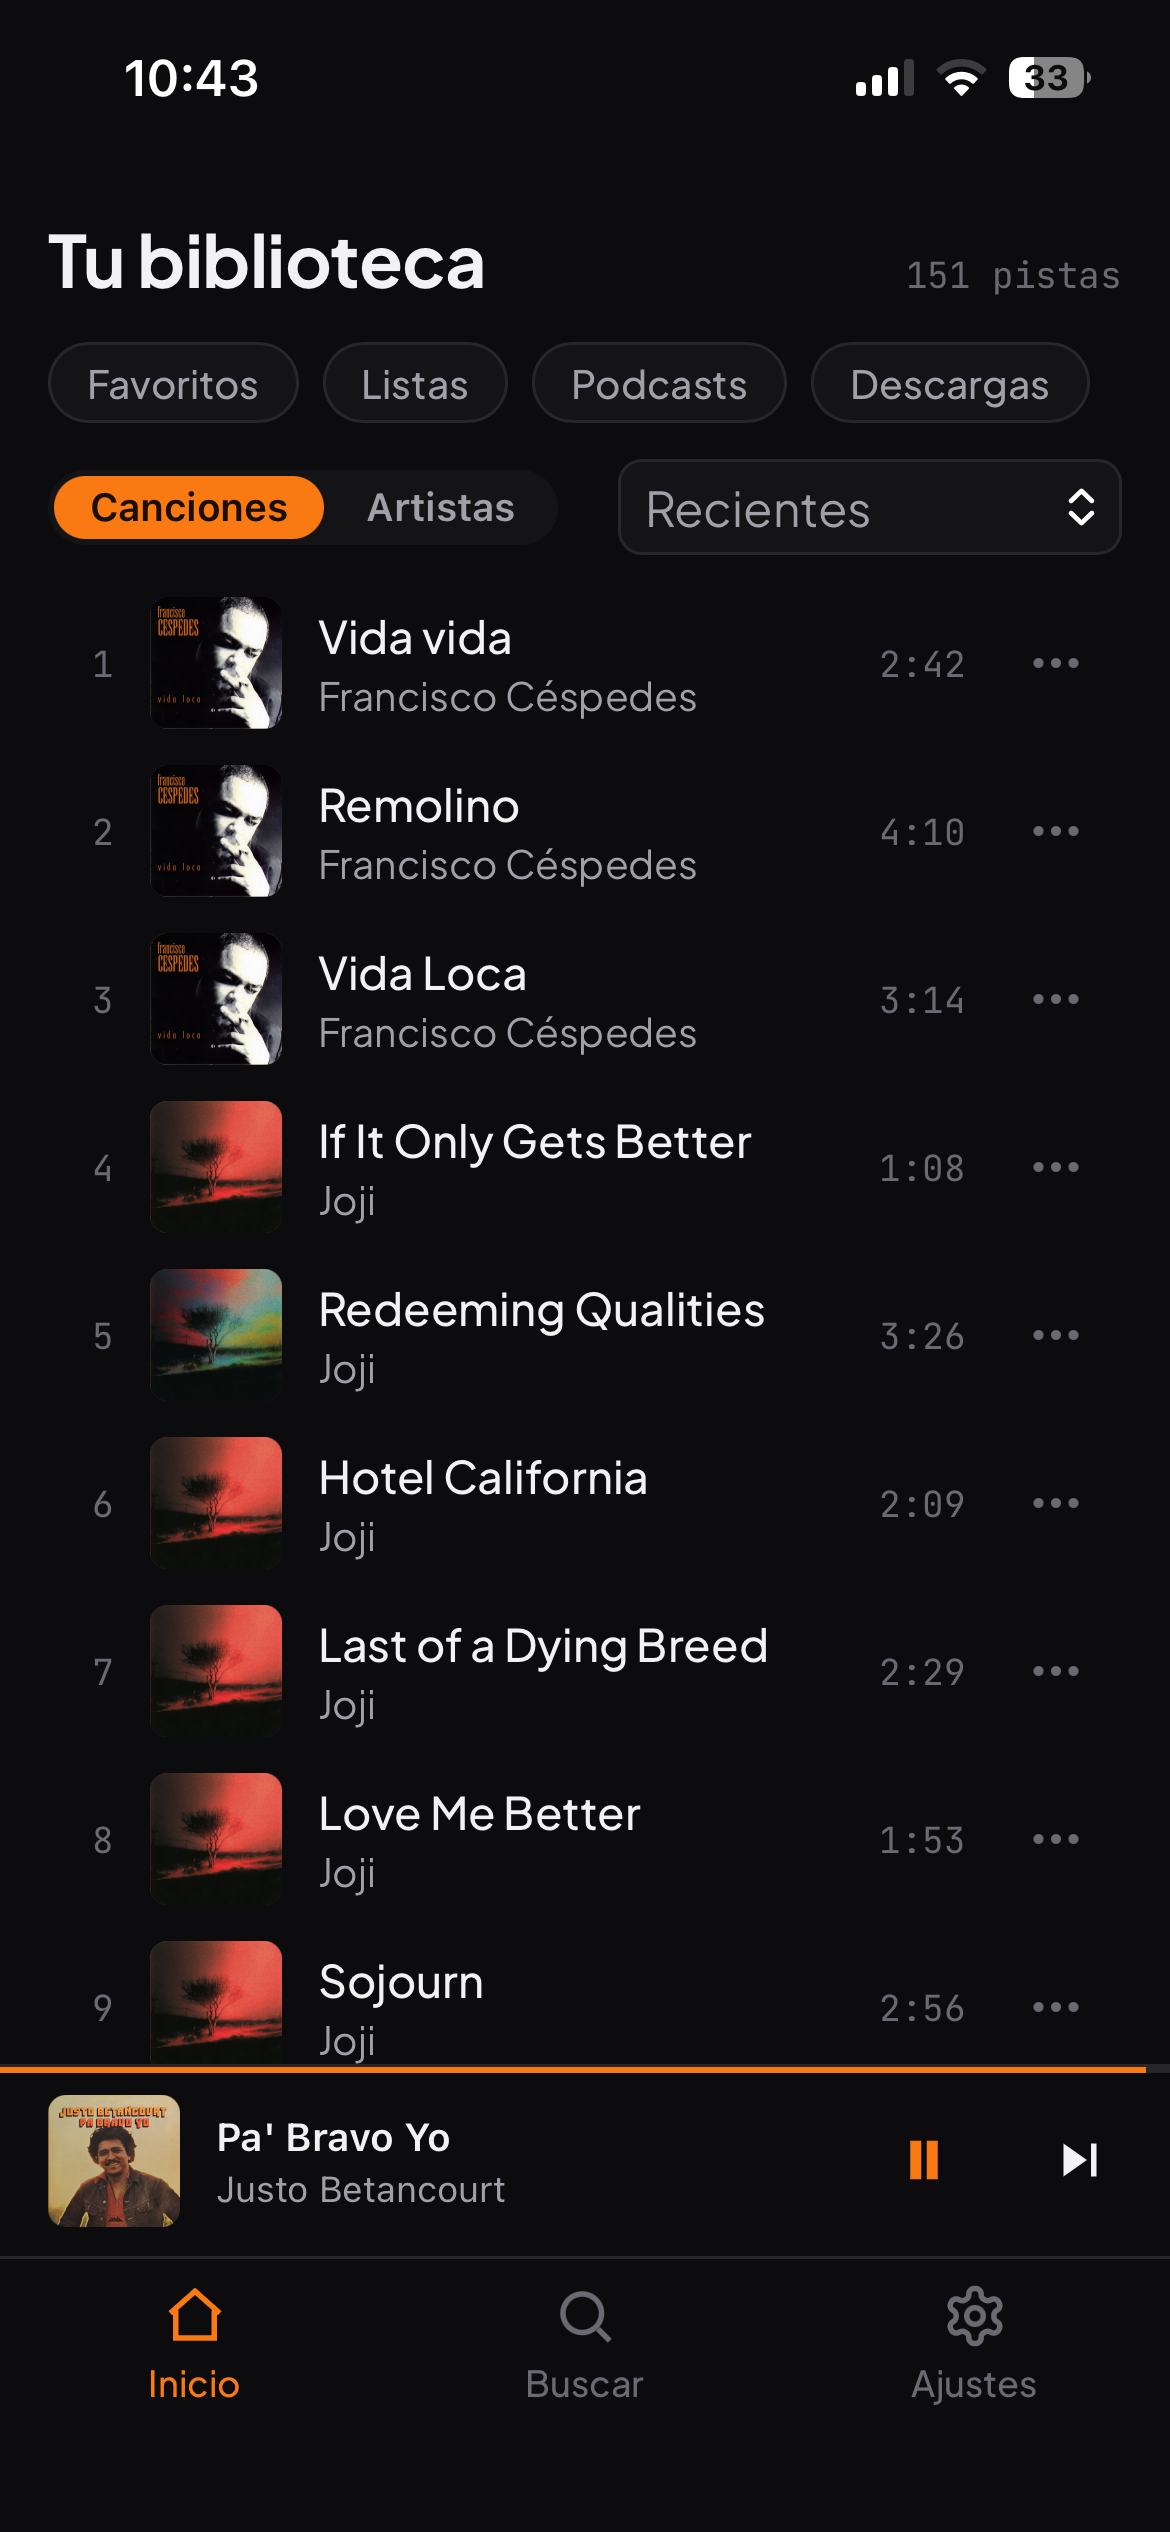
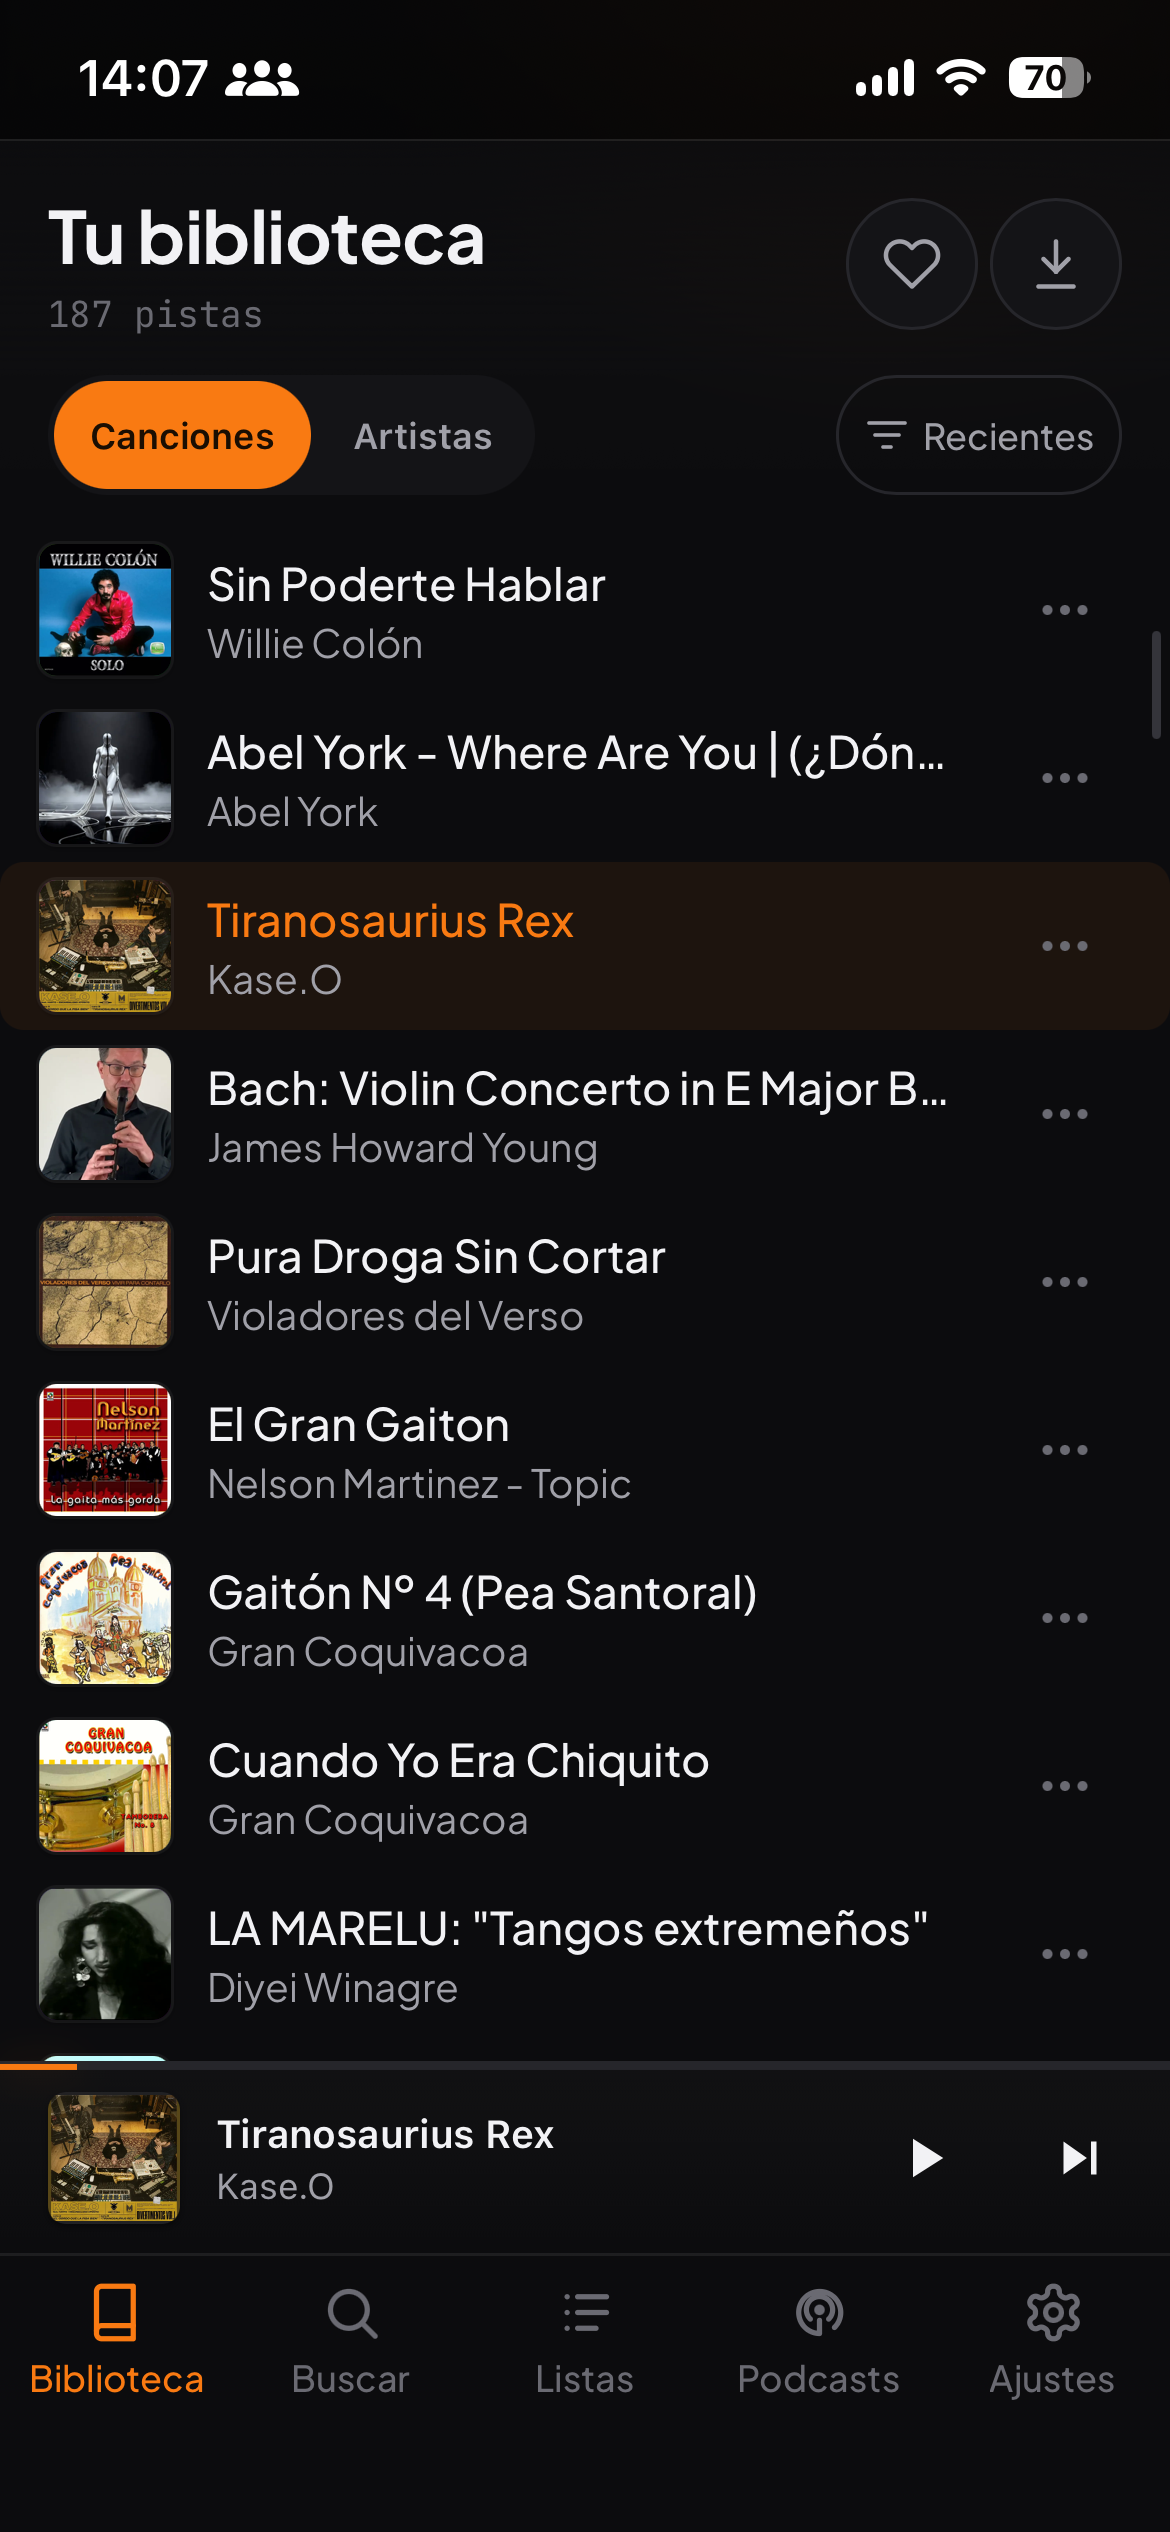
docs: refresh Soundsible interface showcase

diff --git a/README.md b/README.md
@@ -32,8 +32,8 @@ npm run preview  # serve dist locally
 Screenshots and the app logo live under `public/`. To refresh them after a product update, copy from the main Soundsible repo, for example:
 
 - `branding/logo-app.png` → `public/logo-app.png`
-- `docs/images/desktop-player-dark.png` → `public/screenshots/` and optionally `public/og-image.png`
-- Mobile shots from `docs/images/` → `public/screenshots/`
+- The three current images from `docs/images/` → `public/screenshots/`
+- `docs/images/now-playing-desktop.png` → `public/og-image.png`
 
 Regenerate `public/favicon.png` from the logo if the icon changes (64×64 PNG is enough).
 
